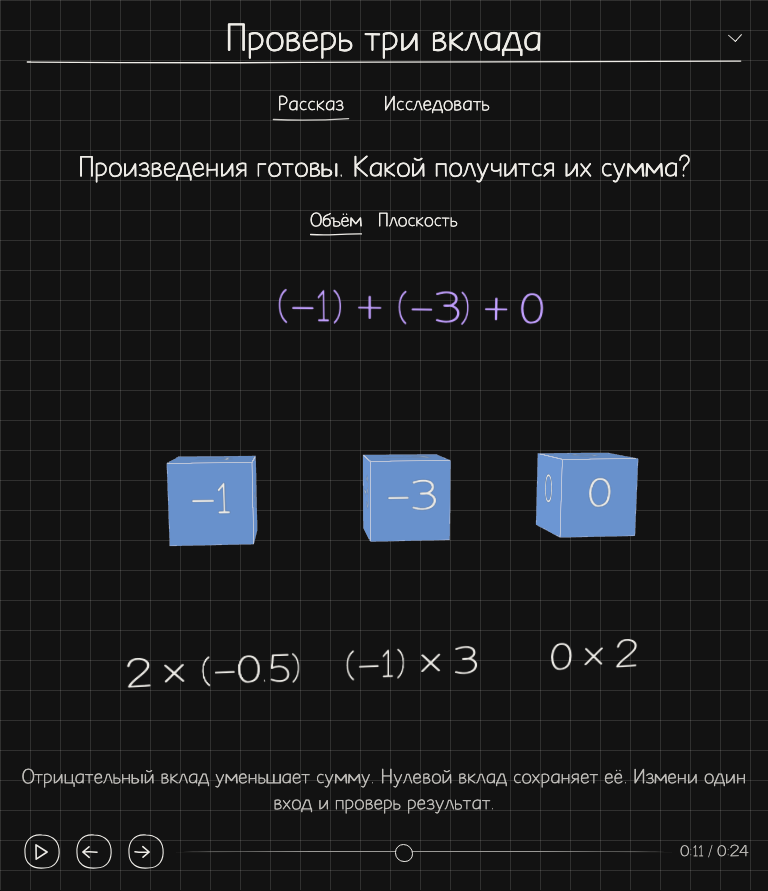
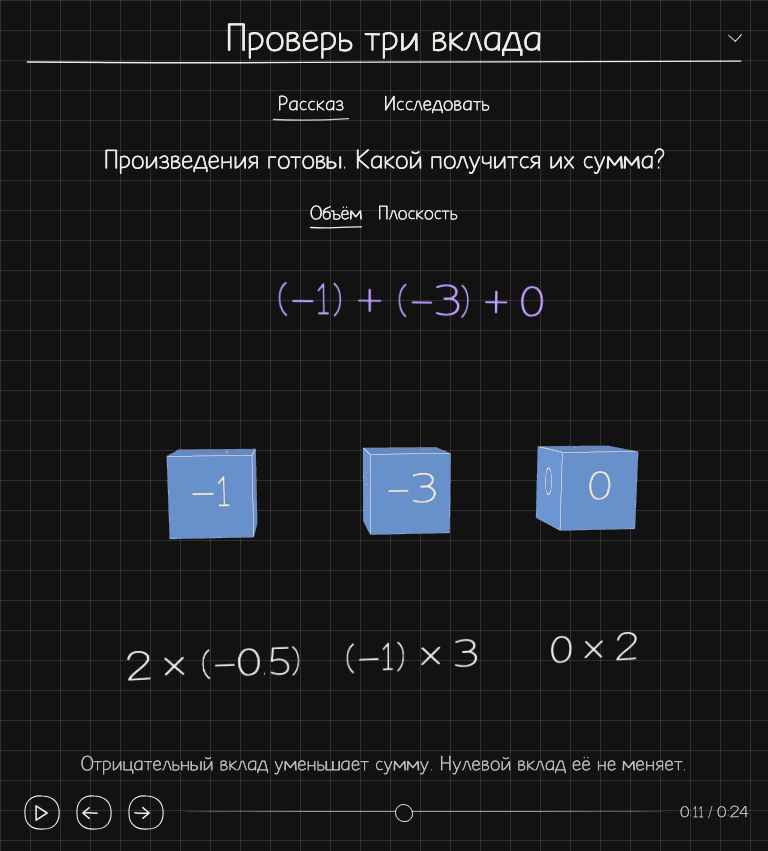
fix(morph): clarify operations and focus completed results

diff --git a/src/morph/arithmetic.ts b/src/morph/arithmetic.ts
@@ -4,6 +4,7 @@ import type {
   MathMorphFrame,
   MathMorphPlan,
   MathPart,
+  MathNote,
   MorphPoint,
 } from './types.js';
 import { clamp, equation, mathNumber, mix, smooth } from './numbers.js';
@@ -44,6 +45,22 @@ const cell = (
 });
 type Stage = { sample(p: number): Omit<MathMorphFrame, 'stage'>; bounds: MathPart[] };
 
+function between(a: MathPart, b: MathPart, text: string, id: string): MathNote {
+  const gap = Math.hypot(...a.position.map((v, axis) => v - b.position[axis]!)) - cellSize;
+  return {
+    id,
+    text,
+    size: [0.7, 0.7],
+    position: [
+      (a.position[0] + b.position[0]) / 2,
+      (a.position[1] + b.position[1]) / 2,
+      cellSize / 2 + 0.01,
+    ],
+    // Retire the sign before the closing gap becomes smaller than its inscription.
+    opacity: smooth((gap - 0.75) / 0.6),
+  };
+}
+
 /** Contact precedes evaluation: the packed source union contracts into its result slot. */
 function reduceCells(
   inputs: MathPart[],
@@ -77,18 +94,25 @@ function reduceCells(
       return {
         sources,
         targets: [target],
-        notes: provenance?.map((note) => {
-          const owner = sources.find((source) => source.id === note.id);
-          return {
-            ...note,
-            position: [
-              owner?.position[0] ?? note.position[0],
-              note.position[1],
-              note.position[2],
-            ] as MorphPoint,
-            opacity: 1 - smooth(p / 0.38),
-          };
-        }),
+        notes: [
+          ...provenance.map((note) => {
+            const owner = sources.find((source) => source.id === note.id);
+            return {
+              ...note,
+              position: [
+                owner?.position[0] ?? note.position[0],
+                note.position[1],
+                note.position[2],
+              ] as MorphPoint,
+              opacity: note.opacity * (1 - smooth(p / 0.38)),
+            };
+          }),
+          ...sources.slice(1).map((part, i) => {
+            const note = between(sources[i]!, part, symbols[operator], `operator:${i}`);
+            note.opacity *= provenance.length ? smooth(p / 0.08) : 1;
+            return note;
+          }),
+        ],
         morph,
         sourceOpacity: 1 - smooth((p - 0.44) / 0.14),
         targetOpacity: smooth((p - 0.82) / 0.1),
@@ -153,18 +177,20 @@ function pairs(
         morph,
         sourceOpacity: 1 - smooth((p - 0.44) / 0.14),
         targetOpacity: smooth((p - 0.82) / 0.1),
-        formula:
-          operator === 'multiply'
-            ? 'Умножаем соответствующие числа'
-            : 'Складываем соответствующие числа',
+        formula: operator === 'multiply' ? 'Умножаем пары' : 'Складываем пары',
         phase: p < 0.4 ? 'approach' : p < 0.9 ? 'contact' : 'hold',
-        notes: left.map((a, i) => ({
-          id: `pair:${i}`,
-          position: [targets[i]!.position[0], -3, cellSize / 2 + 0.01] as MorphPoint,
-          size: [3.1, 0.85] as const,
-          text: `${term(a)} ${symbols[operator]} ${term(right[i]!)}`,
-          opacity: 1,
-        })),
+        notes: [
+          ...left.map((a, i) => ({
+            id: `pair:${i}`,
+            position: [targets[i]!.position[0], -3, cellSize / 2 + 0.01] as MorphPoint,
+            size: [3.1, 0.85] as const,
+            text: `${term(a)} ${symbols[operator]} ${term(right[i]!)}`,
+            opacity: smooth((p - 0.34) / 0.24),
+          })),
+          ...left.map((_, i) =>
+            between(sources[i]!, sources[n + i]!, symbols[operator], `operator:${i}`),
+          ),
+        ],
       };
     },
   };
@@ -182,7 +208,7 @@ export function arithmeticPlan(operation: CellOperation): MathMorphPlan {
           cell(
             value,
             `input:${i}`,
-            [(i - (values.length - 1) / 2) * 1.8, 0, 0],
+            [(i - (values.length - 1) / 2) * 3, 0, 0],
             [{ operand: 0, index: i, value }],
           ),
         ),
@@ -198,7 +224,11 @@ export function arithmeticPlan(operation: CellOperation): MathMorphPlan {
     stages.push(paired);
     const products = paired.sample(1).targets;
     if (operation.kind === 'dot') {
-      const sum = reduceCells(products, 'add', paired.sample(1).notes);
+      const sum = reduceCells(
+        products,
+        'add',
+        paired.sample(1).notes?.filter((note) => note.opacity > 0),
+      );
       stages.push(sum);
       result = sum.sample(1).targets[0]!.value;
     } else result = products.map((p) => p.value);

diff --git a/src/morph/measure.ts b/src/morph/measure.ts
@@ -1,4 +1,5 @@
 import type { MathMorphFrame, MathMorphPlan, MathPart, MorphPoint } from './types.js';
+import { mix, smooth } from './numbers.js';
 
 export function partBounds(parts: readonly MathPart[]): [MorphPoint, MorphPoint] {
   const min = [Infinity, Infinity, Infinity],
@@ -10,12 +11,51 @@ export function partBounds(parts: readonly MathPart[]): [MorphPoint, MorphPoint]
     }
   return [min as unknown as MorphPoint, max as unknown as MorphPoint];
 }
-/** Large quantities use a following frame; the plan retains its fixed comparison bounds. */
-export function frameBounds(plan: MathMorphPlan, frame: MathMorphFrame): [MorphPoint, MorphPoint] {
-  if (
-    plan.encoding === 'cells' ||
-    Math.max(...plan.bounds[1].map((v, i) => v - plan.bounds[0][i]!)) <= 16
-  )
+export const cellFormulaWidth = (plan: MathMorphPlan) =>
+  Math.max(3, Math.min(6.6, plan.bounds[1][0] - plan.bounds[0][0]));
+
+/** Both projections follow the last computation; the plan retains its fixed comparison bounds. */
+export function frameBounds(
+  plan: MathMorphPlan,
+  frame: MathMorphFrame,
+  progress: number,
+): [MorphPoint, MorphPoint] {
+  if (plan.encoding === 'cells') {
+    const focus = smooth((progress * plan.stages - (plan.stages - 1) - 0.25) / 0.65);
+    const sources = partBounds(frame.sources),
+      targets = partBounds(frame.targets);
+    const body = sources.map((point, side) =>
+      point.map((v, axis) => mix(v, targets[side]![axis]!, frame.morph)),
+    );
+    const focusBounds = body.map((point) => [...point]);
+    for (const note of frame.notes ?? [])
+      for (let axis = 0; axis < 2; axis++) {
+        const min = note.position[axis]! - note.size[axis]! / 2;
+        const max = note.position[axis]! + note.size[axis]! / 2;
+        focusBounds[0]![axis] = Math.min(
+          focusBounds[0]![axis]!,
+          mix(body[0]![axis]!, min, note.opacity),
+        );
+        focusBounds[1]![axis] = Math.max(
+          focusBounds[1]![axis]!,
+          mix(body[1]![axis]!, max, note.opacity),
+        );
+      }
+    for (let axis = 0; axis < 2; axis++) {
+      const center = (focusBounds[0]![axis]! + focusBounds[1]![axis]!) / 2;
+      const minimum = Math.min(
+        axis === 0 ? cellFormulaWidth(plan) : 3.4,
+        plan.bounds[1][axis]! - plan.bounds[0][axis]!,
+      );
+      const half = Math.max(minimum, focusBounds[1]![axis]! - focusBounds[0]![axis]!) / 2;
+      focusBounds[0]![axis] = center - half;
+      focusBounds[1]![axis] = center + half;
+    }
+    return plan.bounds.map((point, side) =>
+      point.map((v, axis) => mix(v, focusBounds[side]![axis]!, focus)),
+    ) as unknown as [MorphPoint, MorphPoint];
+  }
+  if (Math.max(...plan.bounds[1].map((v, i) => v - plan.bounds[0][i]!)) <= 16)
     return [[...plan.bounds[0]], [...plan.bounds[1]]];
   const [min, max] = partBounds(
     frame.morph === 0

diff --git a/examples/neuron-morph/scene.js b/examples/neuron-morph/scene.js
@@ -37,7 +37,6 @@ window.galleryReady = (async () => {
   });
   const question = document.createElement('p');
   question.className = 'neuron-question';
-  question.textContent = 'Как входы и веса становятся одним сигналом?';
   const controls = document.createElement('div');
   controls.className = 'neuron-views';
   shell.stage.before(question, controls);
@@ -74,7 +73,6 @@ window.galleryReady = (async () => {
   controls.append(representation.element);
   const hint = document.createElement('p');
   hint.className = 'neuron-hint';
-  hint.textContent = 'Поверни рисунок мышью. В «Исследовать» меняй входы, веса и ход вычисления.';
   shell.stage.after(hint);
   let key = [...inputsOf(initial), ...weightsOf(initial)].join('/'),
     current;
@@ -98,14 +96,14 @@ window.galleryReady = (async () => {
         state.progress === 1
           ? 'Сигнал собран. Что изменится при другом входе?'
           : measured.stage === 0
-            ? 'Входы сверху, веса снизу. Какой вклад даст каждая пара?'
+            ? 'Входы сверху, веса снизу. Каков вклад пары?'
             : 'Произведения готовы. Какой получится их сумма?';
       const negative = measured.sources.some((part) => part.value < 0);
       const zero = measured.sources.some((part) => part.value === 0);
       hint.textContent =
         measured.stage === 0
-          ? 'Поверни фишки. В «Исследовать» можно изменить числа и ход вычисления.'
-          : `${negative ? 'Отрицательный вклад уменьшает сумму. ' : ''}${zero ? 'Нулевой вклад сохраняет её. ' : ''}Измени один вход и проверь результат.`;
+          ? 'Поверни фишки. Менять числа можно в «Исследовать».'
+          : `${negative ? 'Отрицательный вклад уменьшает сумму. ' : ''}${zero ? 'Нулевой вклад её не меняет.' : 'Измени один вход и проверь результат.'}`;
       view.shot({
         target: volume.bounds,
         direction: [-1.4, 1.6, 12],

diff --git a/tests/browser/neuron-morph.spec.ts b/tests/browser/neuron-morph.spec.ts
@@ -6,8 +6,11 @@ test('the signed neuron keeps its result through orbit, projection changes and r
 }) => {
   const errors: string[] = [];
   page.on('pageerror', (error) => errors.push(error.message));
+  await page.setViewportSize({ width: 1280, height: 720 });
   await page.goto('/neuron-morph/index.html');
   await page.evaluate(() => window.galleryReady);
+  const player = await page.locator('.ve-player').boundingBox();
+  expect(player!.y + player!.height).toBeLessThanOrEqual(720);
   // Preparation may itself draw a probe; establish the displayed scene before taking its baseline.
   await page.locator('.neuron-volume canvas').screenshot();
   const rendererInfo = () =>
@@ -58,5 +61,18 @@ test('the signed neuron keeps its result through orbit, projection changes and r
   await page.locator('[data-seek]').fill('7');
   await page.locator('[data-seek]').fill('21');
   await expect(flat.locator('.vs-lettering[aria-label="(−1) + (−3) + 0 = −4"]')).toBeVisible();
+  await page.setViewportSize({ width: 375, height: 720 });
+  let stageY: number | undefined;
+  let playerY: number | undefined;
+  for (const time of ['0', '14', '21']) {
+    await page.locator('[data-seek]').fill(time);
+    const stage = (await page.locator('.ve-stage').boundingBox())!;
+    const player = (await page.locator('.ve-player').boundingBox())!;
+    stageY ??= stage.y;
+    playerY ??= player.y;
+    expect(stage.y).toBeCloseTo(stageY, 1);
+    expect(player.y).toBeCloseTo(playerY, 1);
+    expect(player.y + player.height).toBeLessThanOrEqual(720);
+  }
   expect(errors).toEqual([]);
 });

diff --git a/src/morph/three.ts b/src/morph/three.ts
@@ -12,7 +12,7 @@ import {
   LineBasicMaterial,
 } from 'three';
 import type { Viewport3D } from '../viewport/three.js';
-import { frameBounds, quantityGrid } from './measure.js';
+import { cellFormulaWidth, frameBounds, quantityGrid } from './measure.js';
 import { VolumeMorph } from '../viewport/morph/surface.js';
 import { mathPlan } from './math.js';
 import { mathNumber } from './numbers.js';
@@ -52,7 +52,7 @@ function mount(
             tone: 'purple',
             space: 'world',
             height: 0.85,
-            maxWidth: Math.max(3, plan.bounds[1][0] - plan.bounds[0][0]),
+            maxWidth: cellFormulaWidth(plan),
           }
         : { tone: 'purple', size: 26 },
     );
@@ -109,7 +109,7 @@ function mount(
     const frame = plan.sample(p);
     progress = p;
     const parts = [...frame.sources, ...frame.targets];
-    const [min, max] = frameBounds(plan, frame);
+    const [min, max] = frameBounds(plan, frame, p);
     bounds.set(new Vector3(...min), new Vector3(...max));
     const width = max[0] - min[0],
       height = max[1] - min[1],
@@ -121,7 +121,7 @@ function mount(
       plan.encoding === 'cells' ? max[2] + 0.01 : 0,
     );
     const key = [...min, ...max].join(',');
-    if (key !== rulerKey) {
+    if (plan.encoding === 'quantity' && key !== rulerKey) {
       const ticks: number[] = [],
         y = min[1] - gap / 2,
         step = Math.max(1, 10 ** Math.ceil(Math.log10(width / 32)));

diff --git a/examples/neuron-morph/style.css b/examples/neuron-morph/style.css
@@ -4,7 +4,7 @@
 }
 #neuron-scene .ve-stage {
   position: relative;
-  height: clamp(360px, 53vh, 510px);
+  height: clamp(280px, calc(100svh - 390px), 510px);
 }
 .neuron-volume,
 .neuron-flat {
@@ -16,8 +16,8 @@
 .neuron-flat svg {
   max-height: 100%;
 }
-.neuron-question {
-  font: 24px var(--ve-font);
+#neuron-scene .neuron-question {
+  font: 22px/1.4 var(--ve-font);
   text-align: center;
   margin: 8px 12px 14px;
 }
@@ -34,26 +34,29 @@
   height: 1px;
   overflow: hidden;
 }
-.neuron-hint {
-  font: 17px var(--ve-font);
+#neuron-scene .neuron-hint {
+  font: 17px/1.4 var(--ve-font);
   color: var(--ve-muted);
   text-align: center;
   margin: 8px 14px 12px;
-  min-height: 2lh;
+  min-height: 1lh;
 }
 #neuron-scene .ve-control-range {
   grid-column: 1 / -1;
 }
 @media (max-width: 480px) {
-  .neuron-question {
+  #neuron-scene .ve-chapter-heading .ve-select-trigger {
+    min-height: calc(2lh + 8px);
+  }
+  #neuron-scene .neuron-question {
     font-size: 20px;
     min-height: 2lh;
   }
-  .neuron-hint {
+  #neuron-scene .neuron-hint {
     min-height: 3lh;
   }
   #neuron-scene .ve-stage {
-    height: 400px;
+    height: clamp(240px, calc(100svh - 460px), 400px);
   }
   #neuron-scene .ve-parameters {
     grid-template-columns: repeat(3, minmax(0, 1fr));

diff --git a/src/morph/svg.ts b/src/morph/svg.ts
@@ -57,7 +57,7 @@ function mount(
     const frame = plan.sample(progress);
     latest = progress;
     if (!parent.getClientRects().length) return frame;
-    const [min, max] = frameBounds(plan, frame);
+    const [min, max] = frameBounds(plan, frame, progress);
     const center = [(min[0] + max[0]) / 2, (min[1] + max[1]) / 2];
     scale = Math.min((width - 72) / (max[0] - min[0]), (height - 150) / (max[1] - min[1]));
     const transform = (part: MathPart) => ({

diff --git a/docs/morphing.md b/docs/morphing.md
@@ -43,7 +43,7 @@ MathMorph.calculate('divide', -3, 2); // -1.5
 
 Эти операции принимают конечные знаковые числа и ноль: одинаковые ячейки несут значения, их размер не означает величину числа (`plan.encoding === 'cells'`). `calculate` поддерживает `add`, `multiply`, `divide`, `power`; векторные операции принимают равные ряды из 1…16 чисел, деление и степень — два операнда. Неопределённый или бесконечный результат отклоняется до замены сцены. Оба представления используют тот же `setOperation` / `render`; 2D строит непрерывный срез общего поля без подмены формы в середине.
 
-`plan.result` — число либо массив для `vectorAdd`; `sample(p)` сохраняет `id` частей и `origins: [{ operand, index, value }]` через промежуточные произведения до суммы. Числа видны при сближении, уступают место соединяющейся форме после контакта, результат появляется после преобразования; формулы под своими колонками показывают вычисление и плавно уходят при сборке суммы. Сцена задаёт входы, смысл рассказа и его метки; расчёт вкладов, размещение и движение принадлежат библиотеке.
+`plan.result` — число либо массив для `vectorAdd`; `sample(p)` сохраняет `id` частей и `origins: [{ operand, index, value }]` через промежуточные произведения до суммы. Знак операции виден между участниками до контакта; затем локальное выражение сопровождает превращение в результат и плавно уходит при сборке суммы. Числа уступают место соединяющейся форме на время преобразования, а рамка плавно приближает результат в обоих представлениях; `plan.bounds` сохраняет фиксированный масштаб для сравнения. Сцена задаёт входы, смысл рассказа и его метки; расчёт вкладов, размещение и движение принадлежат библиотеке.
 
 ## Собственные формы и текст
 

diff --git a/README.md b/README.md
@@ -1,6 +1,6 @@
 # Visual Storytelling
 
-TypeScript-библиотека аккуратных рисованных объяснений и единая основа навыка `visual-explainer`. Версия **0.8.0** объединяет измеряемые величины и вычисления с числовыми ячейками в общей 2D/3D-анимации; состояние рассказа, поля, главы и камера связаны через единый `root.scene`. Голос продолжает идти при ручном осмотре; авторский dev-сервер сохраняет место рассказа при правке.
+TypeScript-библиотека аккуратных рисованных объяснений и единая основа навыка `visual-explainer`. Версия **0.8.1** объединяет измеряемые величины и вычисления с числовыми ячейками в общей 2D/3D-анимации; состояние рассказа, поля, главы и камера связаны через единый `root.scene`. Голос продолжает идти при ручном осмотре; авторский dev-сервер сохраняет место рассказа при правке.
 
 ## Запуск
 
